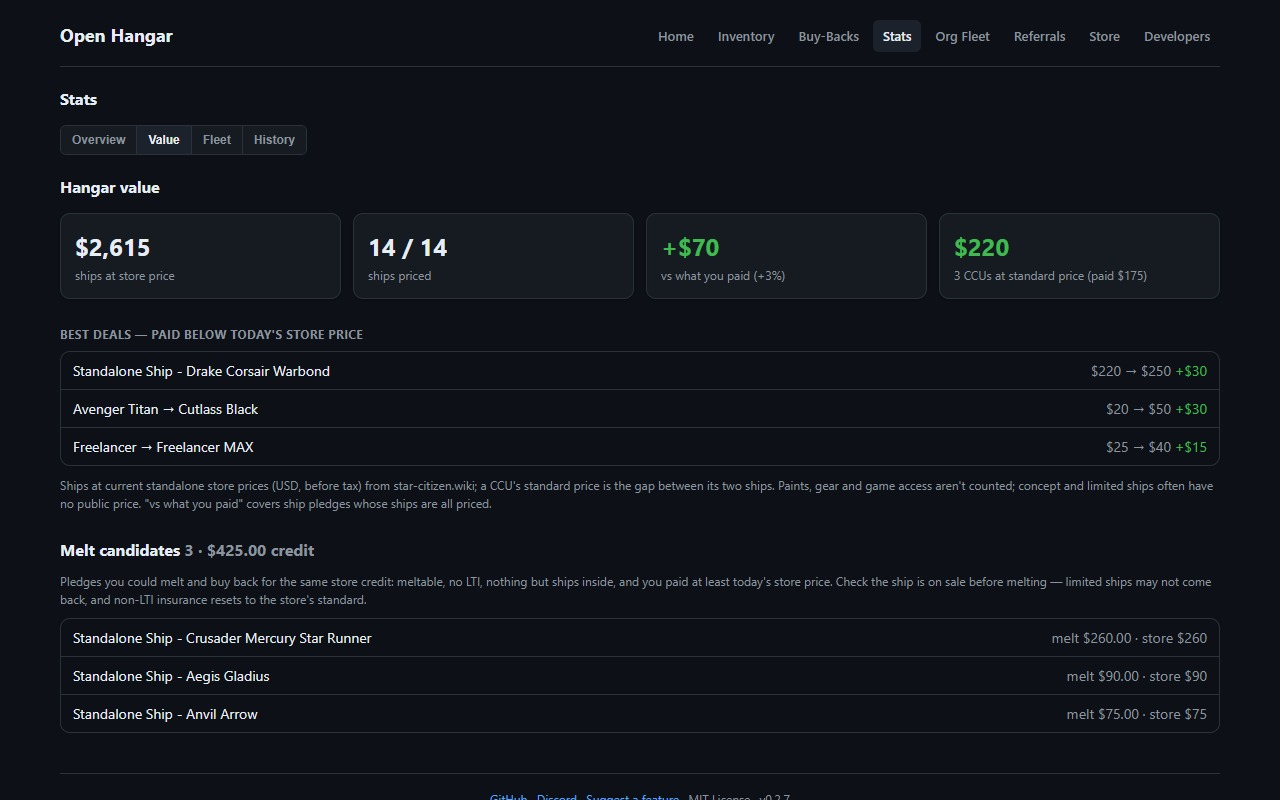
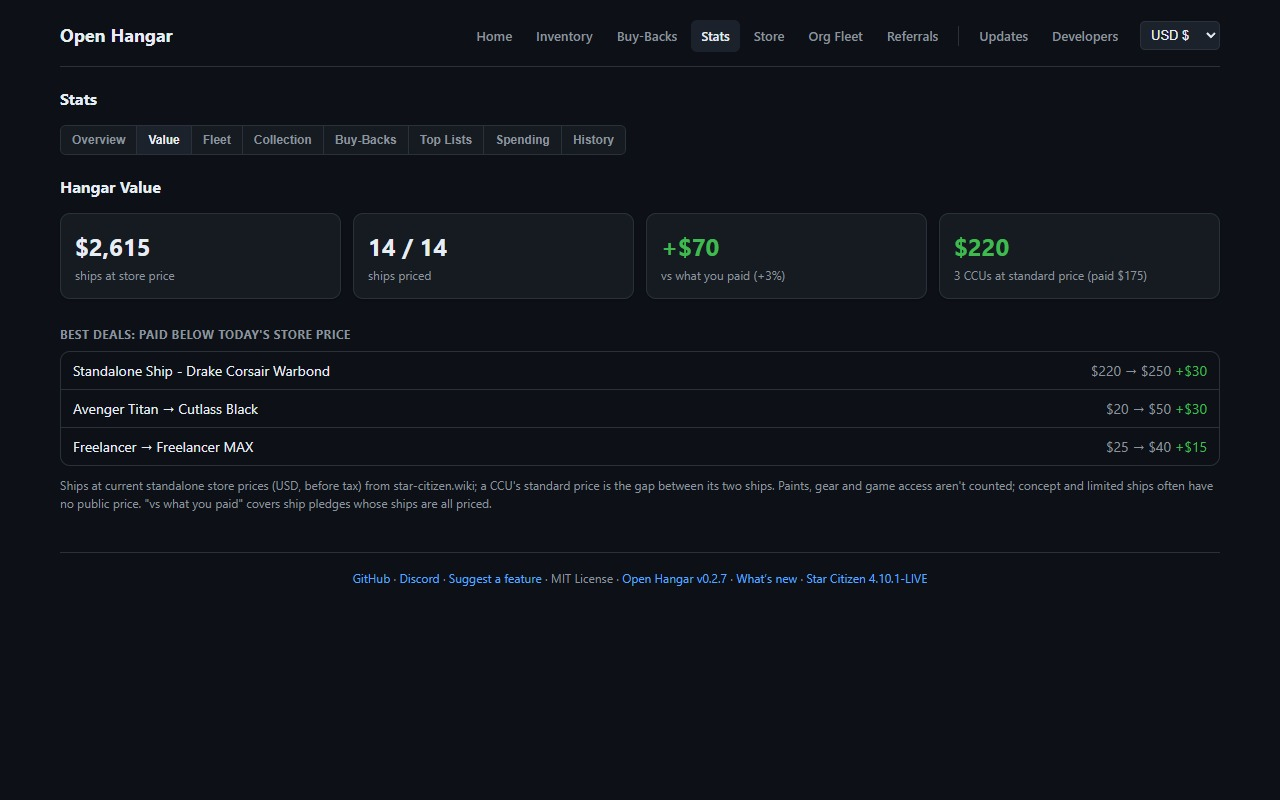
site: Edge is live, fresh screenshots, copy for wishlist/org fleet; fix empty Home box
- openhangar.space: Edge install button live, status line drops out; no more
  "what you could melt"; new Wishlist and Store + Org Fleet feature cards (3x2).
- Screenshots regenerated from the current build; the script now waits for
  Home's news panel before capturing.
- Extension: .home-panel's display:flex overrode [hidden], so an empty
  wishlist left a blank 330px box on Home.
- README / STORE.md: Edge live.

diff --git a/site/index.html b/site/index.html
@@ -62,8 +62,13 @@
           >
             <span class="b-name">Chrome</span><span class="b-note">Add to Chrome</span>
           </a>
-          <a class="install" data-browser="edge" data-status="review" data-url="">
-            <span class="b-name">Edge</span><span class="b-note">In review</span>
+          <a
+            class="install"
+            data-browser="edge"
+            data-status="live"
+            data-url="https://microsoftedge.microsoft.com/addons/detail/fmcnemfepnifokjelgjacgdhoodaiicl"
+          >
+            <span class="b-name">Edge</span><span class="b-note">Add to Edge</span>
           </a>
           <a
             class="install"
@@ -78,8 +83,7 @@
           </a>
         </div>
         <p class="also" id="status-line">
-          Live on Chrome (and Brave, Opera, Vivaldi) and Firefox. Edge is still in review. Can't
-          wait?
+          Live on Chrome (and Brave, Opera, Vivaldi), Edge and Firefox. Can't wait?
           <a href="https://github.com/Draco-Foundry/open-hangar#install">Load it from source</a>.
         </p>
         <!-- Version + date are filled in at deploy from manifest.json and git history
@@ -128,7 +132,7 @@
             aria-selected="false"
             data-src="img/screens/screenshot-2-home.jpg"
             data-title="Home"
-            data-text="your Citizen Card: handle, org and rank, balances and referral count at a glance."
+            data-text="your Citizen Card with balances and referrals, one search box for everything you own, and This Week in Star Citizen."
           >
             <img src="img/screens/screenshot-2-home.jpg" alt="" loading="lazy" />
             <span>Home</span>
@@ -158,7 +162,7 @@
             aria-selected="false"
             data-src="img/screens/screenshot-5-stats.jpg"
             data-title="Stats"
-            data-text="your hangar at today's store prices, your best deals and what you could melt."
+            data-text="your hangar at today's store prices, your best deals, what you've spent over time and more."
           >
             <img src="img/screens/screenshot-5-stats.jpg" alt="" loading="lazy" />
             <span>Stats</span>
@@ -178,8 +182,22 @@
         <div class="feature">
           <h2>Your whole fleet</h2>
           <p>
-            What your ships are worth today, what you could melt, what your CCUs saved you, plus
-            fleet stats and filters for everything.
+            What your ships are worth today, what your CCUs saved you, your loaners, plus fleet
+            stats and filters for everything. Search it all from one box.
+          </p>
+        </div>
+        <div class="feature">
+          <h2>Wishlist and store</h2>
+          <p>
+            Every ship's store price in your currency. Keep a wishlist and see what's on sale now,
+            or find it in your buy-backs.
+          </p>
+        </div>
+        <div class="feature">
+          <h2>Org Fleet</h2>
+          <p>
+            Combine your org's ship lists into one fleet and see which roles you've got covered and
+            which ones you're missing.
           </p>
         </div>
         <div class="feature">

diff --git a/src/dashboard.html b/src/dashboard.html
@@ -533,6 +533,9 @@
       }
       /* The two Home panels are the same fixed height; long content scrolls
          inside .home-scroll and the link row (.home-more) stays at the bottom. */
+      .home-panel[hidden] {
+        display: none;
+      }
       .home-panel {
         height: 330px;
         display: flex;

diff --git a/site/style.css b/site/style.css
@@ -254,7 +254,7 @@ h1 {
 
 .features {
   display: grid;
-  grid-template-columns: repeat(auto-fit, minmax(210px, 1fr));
+  grid-template-columns: repeat(auto-fit, minmax(260px, 1fr));
   gap: 16px;
   margin: 48px 0;
 }

diff --git a/docs/STORE.md b/docs/STORE.md
@@ -5,7 +5,7 @@
 > | --- | --- | --- |
 > | Chrome Web Store | **live** v0.2.8; v0.2.9 in review (0.2.10 goes up once it clears; Chrome refuses uploads while a review is pending) (publisher `[email removed]`) | item `aeabioadfphghjennmdbnpelojlhndjl` · [listing](https://chromewebstore.google.com/detail/open-hangar/aeabioadfphghjennmdbnpelojlhndjl) |
 > | Firefox AMO | **live** v0.2.9 (approved 2026-09-28); v0.2.10 submitted 2026-09-29 | [listing](https://addons.mozilla.org/en-US/firefox/addon/open-hangar/) · gecko id `open-hangar@draco-foundry` |
-> | Microsoft Edge | in review (~7 business days) | CRX `fmcnemfepnifokjelgjacgdhoodaiicl` · Store ID `[id removed]` |
+> | Microsoft Edge | **live** v0.2.11 (confirmed 2026-09-30) | [listing](https://microsoftedge.microsoft.com/addons/detail/fmcnemfepnifokjelgjacgdhoodaiicl) · CRX `fmcnemfepnifokjelgjacgdhoodaiicl` · Store ID `[id removed]` |
 >
 > When each goes live, set that button's `data-status="live"` and `data-url` in
 > `site/index.html`; the "in review" line disappears once none are pending.
@@ -156,7 +156,7 @@ install prompt only names robertsspaceindustries.com.)_
 - ✅ Register at [Partner Center → Edge](https://partner.microsoft.com/dashboard/microsoftedge/overview) — **free**.
 - ✅ Upload `open-hangar-chrome-<version>.zip`; reuse the §3 assets, §5
   justifications, §6 copy, and the privacy-policy URL.
-- ✅ Submitted (v0.2.7). Review is typically up to ~7 business days. Edge wants a
+- ✅ Live (v0.2.11 as of 2026-09-30). Review is typically up to ~7 business days. Edge wants a
   300×300 logo: `docs/store-assets/logo-300.png`.
 
 ## 9. Firefox Add-ons (AMO)

diff --git a/README.md b/README.md
@@ -57,8 +57,9 @@ other community tools can import.
 [Open Hangar website](https://openhangar.space/). Brave, Opera and
 Vivaldi use the Chrome Web Store build.
 
-> **Live:** [Chrome Web Store](https://chromewebstore.google.com/detail/open-hangar/aeabioadfphghjennmdbnpelojlhndjl)
-> and [Firefox Add-ons](https://addons.mozilla.org/en-US/firefox/addon/open-hangar/). Edge is still in review; until then, load it from
+> **Live:** [Chrome Web Store](https://chromewebstore.google.com/detail/open-hangar/aeabioadfphghjennmdbnpelojlhndjl),
+> [Microsoft Edge Add-ons](https://microsoftedge.microsoft.com/addons/detail/fmcnemfepnifokjelgjacgdhoodaiicl) and
+> [Firefox Add-ons](https://addons.mozilla.org/en-US/firefox/addon/open-hangar/). Or load it from
 > source (below).
 
 **From source:**

diff --git a/CHANGELOG.md b/CHANGELOG.md
@@ -23,6 +23,7 @@ What's changed in each release of Open Hangar. Dates are when the version was cu
 - Improved: **Check for Updates works on Firefox.** It asks Firefox Add-ons for the latest
   version and tells you whether you're on it, instead of pointing you to about:addons.
 - Improved: the currency picker in the top right is no longer bold.
+- Fixed: Home showed a big empty box when your wishlist was empty.
 
 ## 0.2.11 — 2026-09-29
 
